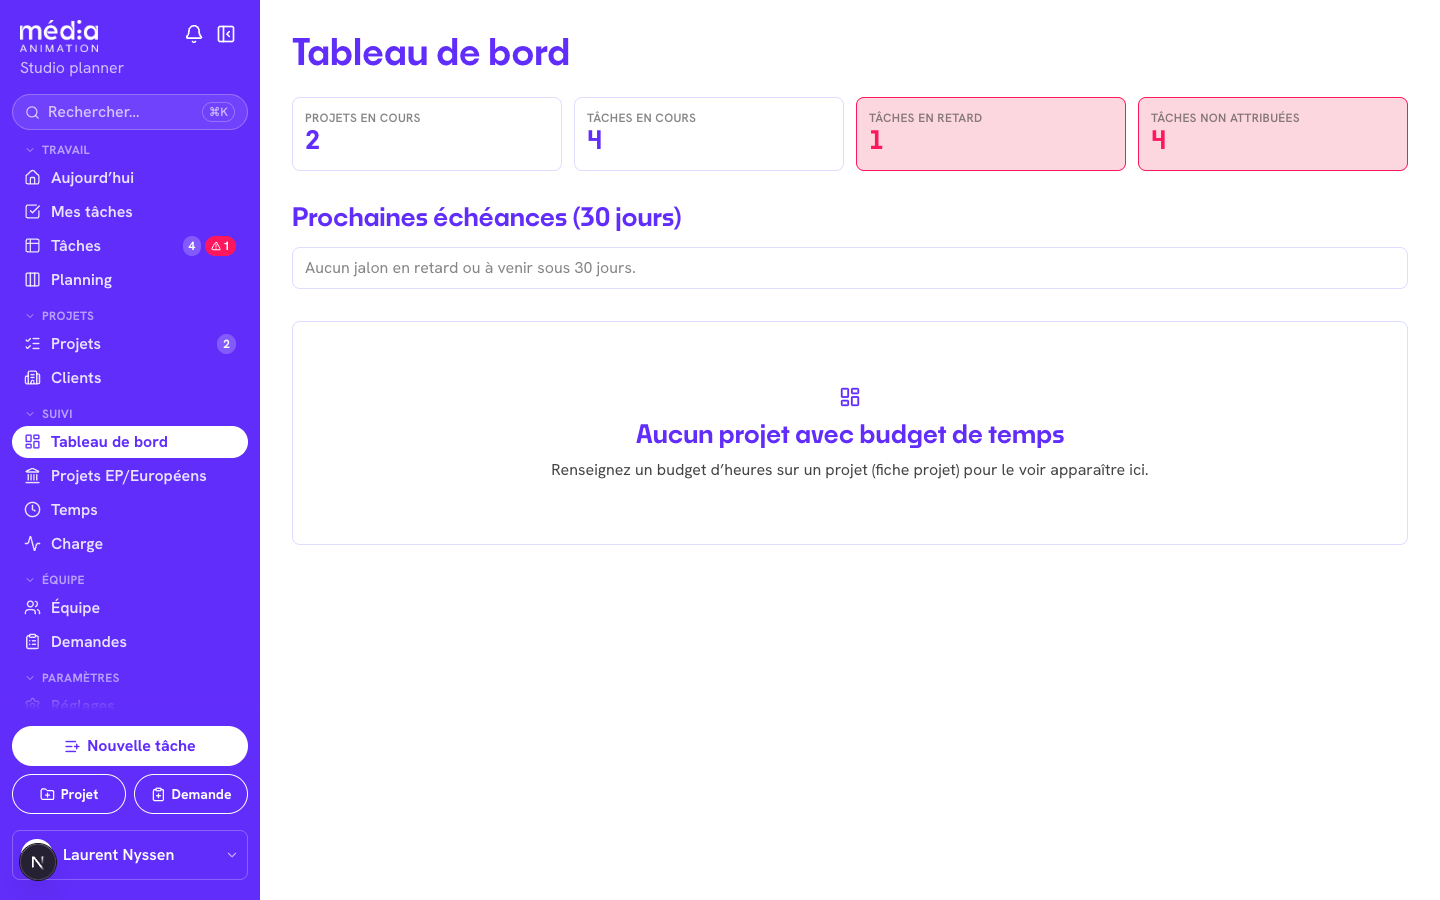
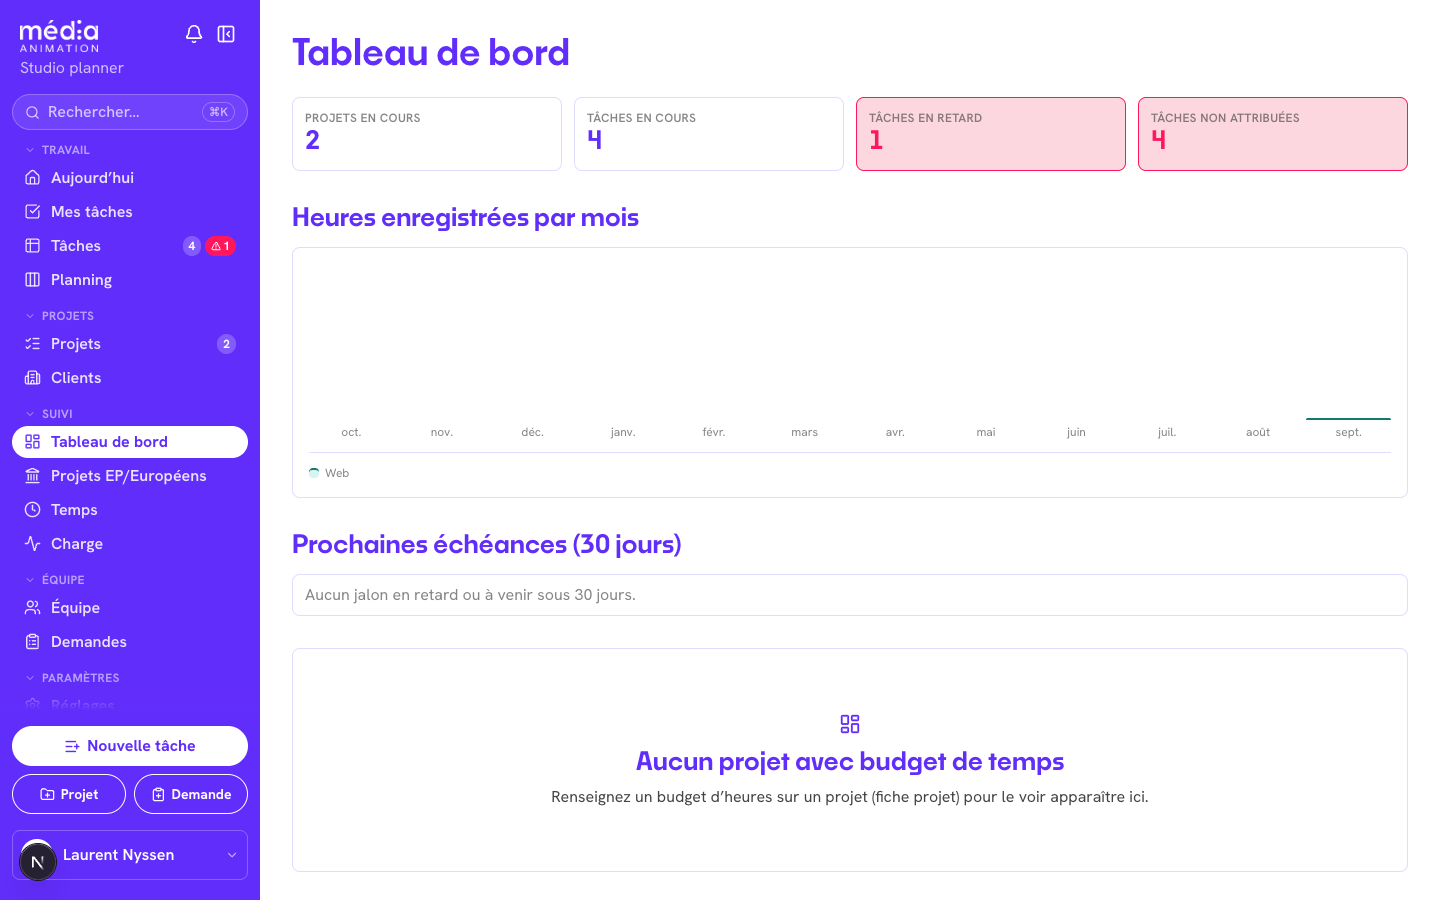
Met à jour le README et la documentation intégrée
README : deux niveaux de rôle effectifs (et non trois), Kanban tactile, et
les fonctions ajoutées — feuilles de temps mensuelles verrouillables,
historique des heures par mois, retours d'action, création par le geste,
récurrence élargie, focus clavier visible.

Documentation intégrée : nouvelle section sur les feuilles de temps (les
trois états et ce que chacun autorise, procédure de validation côté
administrateur), et le Kanban décrit avec sa poignée.

Les 18 captures sont régénérées.

diff --git a/src/app/(app)/aide/page.tsx b/src/app/(app)/aide/page.tsx
@@ -212,8 +212,9 @@ export default function AidePage() {
           <Shot src="/docs/planning-kanban.png" alt="Planning en vue Kanban, colonnes par statut" />
           <Ul>
             <li>
-              <strong>Kanban</strong> — colonnes par statut, glisser-déposer une tâche pour changer son statut. Le
-              bouton en bas de chaque colonne crée une tâche déjà dans ce statut.
+              <strong>Kanban</strong> — colonnes par statut. Attrapez la poignée d’une carte (à droite de son titre)
+              et glissez-la vers une autre colonne pour changer son statut, à la souris comme au doigt. Le bouton en
+              bas de chaque colonne crée une tâche déjà dans ce statut.
             </li>
             <li><strong>Semaine</strong> — grille jour par jour, une ligne par personne.</li>
             <li><strong>Gantt</strong> — barres sur une frise, dépendances affichées en trait reliant deux tâches, nombre de semaines réglable.</li>
@@ -323,6 +324,24 @@ export default function AidePage() {
             lequel compte pour ce temps — invisible sinon, la tâche n’ayant qu’un seul studio à choisir.
           </P>
           <P>Export CSV pour le reporting — même principe que sur le Tableau de bord.</P>
+          <H3>Feuilles de temps</H3>
+          <P>
+            L’onglet <strong>Feuilles</strong> liste vos six derniers mois. Une fois un mois terminé, « Remettre » le
+            transmet pour validation.
+          </P>
+          <Ul>
+            <li><strong>En cours</strong> — vous saisissez et corrigez librement.</li>
+            <li>
+              <strong>Remise</strong> — vous ne pouvez plus rien y modifier : ni ajouter, ni déplacer, ni supprimer une
+              écriture de ce mois. Demandez sa réouverture à un administrateur.
+            </li>
+            <li><strong>Validée</strong> — verrouillée pour tout le monde, jusqu’à réouverture par un administrateur.</li>
+          </Ul>
+          <Steps title="Valider une feuille (administrateur)">
+            <li>Temps → Feuilles → section « Feuilles remises et validées ».</li>
+            <li>« Valider » verrouille le mois, « Rouvrir » le rend de nouveau modifiable.</li>
+            <li>Une feuille déjà validée reste dans la liste : elle peut toujours être rouverte si une correction s’impose.</li>
+          </Steps>
         </section>
 
         <section className="mb-8">

diff --git a/README.md b/README.md
@@ -11,7 +11,10 @@ palier par palier.
 **Palier 3 (Projets/Tâches/Semaine/Gantt/Équipe/Réglages) livré.** Ce qui
 fonctionne aujourd'hui, avec de vraies données en base :
 
-- Connexion par comptes nominatifs (3 rôles), identité visuelle réelle.
+- Connexion par comptes nominatifs, identité visuelle réelle. Deux niveaux
+  effectifs : administrateur et collaborateur. `Role` porte encore
+  `STUDIO_LEAD` pour ne pas invalider une ligne existante, mais il n'ouvre
+  aucun droit et n'est plus proposé à l'attribution — voir `proxy.ts`.
 - Créer et **modifier** des projets et des tâches (modales, depuis n'importe
   quel écran ou en cliquant une tâche/un projet existant).
 - Tâches : description, pièces jointes (liens **et** fichiers déposés —
@@ -32,8 +35,8 @@ fonctionne aujourd'hui, avec de vraies données en base :
   redimensionnable, navigation par calendrier, plage affichée en toutes
   lettres, en-tête fixe au défilement), Kanban (colonnes par statut, toujours
   en ligne — largeur fixe, défilement horizontal plutôt que de retomber à la
-  ligne ; glisser une carte pour changer son statut — sur mobile, ouvrir la
-  tâche fait la même chose depuis sa fiche) et Semaine. Changer d'onglet est
+  ligne ; attraper la poignée d'une carte pour changer son statut, à la souris
+  comme au doigt) et Semaine. Changer d'onglet est
   immédiat ; la date affichée par Semaine reste dans l'URL
   (`/planning?vue=semaine&debut=…`), comme avant la fusion. Les anciennes
   adresses `/gantt`, `/semaine`, `/kanban` redirigent vers le bon onglet.
@@ -191,6 +194,34 @@ fonctionne aujourd'hui, avec de vraies données en base :
   le lien reste possible ("Tâche planifiée", Studio/Projet alors dérivés de
   la tâche) mais "Autre activité" permet de logger du temps sans créer de
   tâche au préalable, pour rester rapide sur du travail non planifié.
+
+- **Feuilles de temps mensuelles** (Temps → Feuilles) : chacun remet le mois
+  écoulé, un administrateur valide ou rouvre. Une feuille remise puis validée
+  verrouille les écritures du mois — démarrage de minuteur, saisie manuelle,
+  création depuis le calendrier, déplacement et suppression sont refusés, pas
+  seulement masqués. Le verrou porte sur le couple personne/mois plutôt que
+  sur l'écriture, sans quoi une écriture *créée après coup* dans un mois
+  validé passerait au travers. Indispensable pour prouver, lors d'un contrôle
+  de subvention, que les chiffres remis n'ont pas bougé depuis. Voir
+  `TimesheetPeriod` dans le schéma et `src/lib/actions/timesheets.ts`.
+- **Historique des heures** (Tableau de bord) : douze mois glissants, barres
+  empilées par studio — le reporting de subvention se lisait jusqu'ici en
+  exportant le CSV pour le refaire à la main.
+- **Retours d'action** : chaque mutation confirme par un message bref en bas
+  à droite, et les confirmations de suppression passent par une fenêtre de
+  l'application (plus de `window.confirm` natif) qui distingue la mise à la
+  corbeille de la suppression définitive.
+- **Création par le geste** : tirer une plage de jours sur la ligne de
+  quelqu'un dans Semaine, ou sur une zone vide du Gantt, ouvre la création
+  avec personne/projet/dates déjà remplis ; chaque colonne du Kanban a son
+  bouton, qui pose le statut de la colonne. Les formulaires de création
+  s'ouvrent en panneau latéral pour garder le contexte visible.
+- **Récurrence** quotidienne, hebdomadaire ou mensuelle, cette dernière au
+  choix sur le même quantième ou le même rang de jour de semaine (« le
+  premier lundi »).
+- **Accessibilité clavier** : anneau de focus visible partout (violet sur
+  fond papier, blanc sur la barre latérale) — les champs le supprimaient
+  jusqu'ici sans rien remettre.
 
 Détail palier par palier et écarts assumés par rapport au plan initial (nav à
 6+3 entrées — Kanban/Semaine/Gantt fusionnés en un seul « Planning », Charge/
